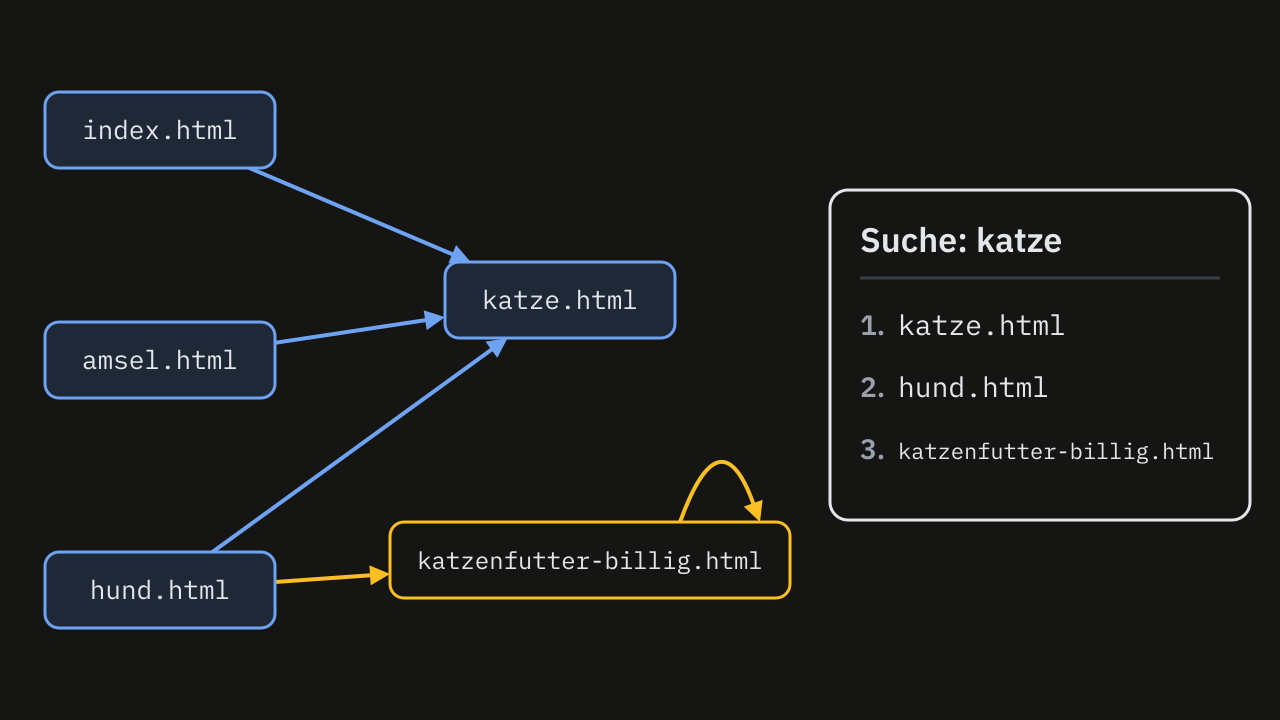
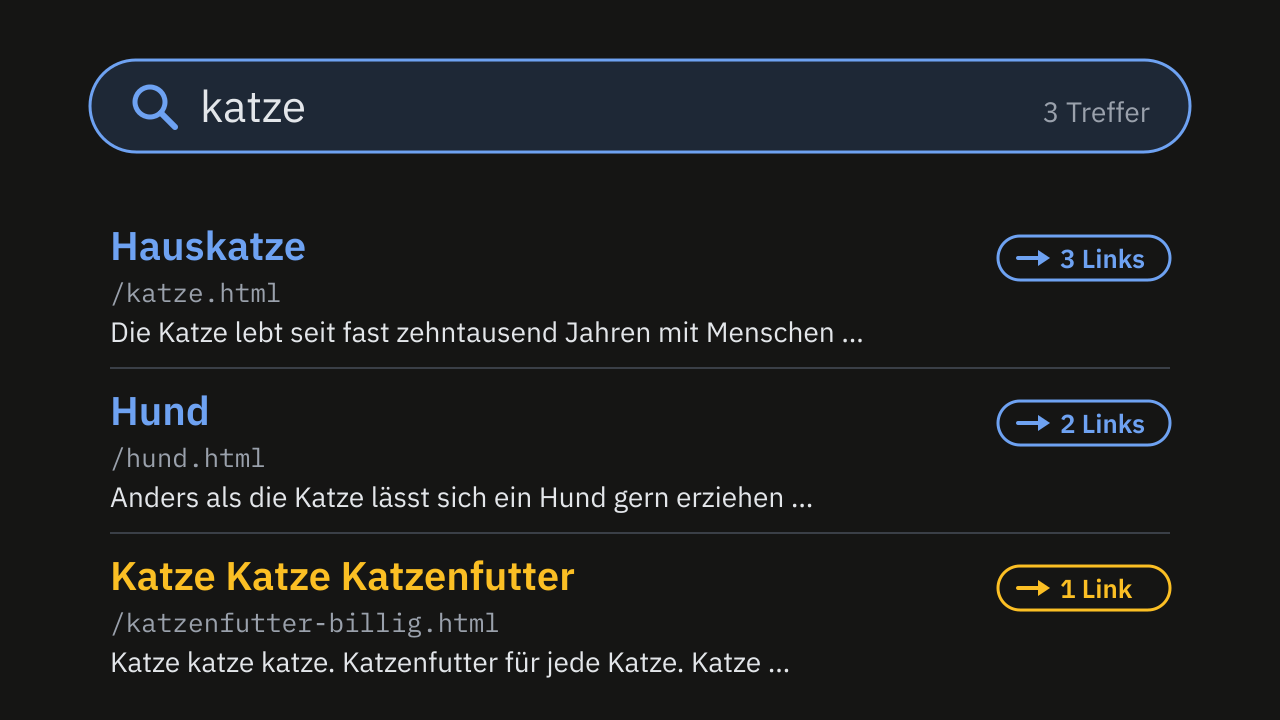
Suchmaschine: a teaser of its own, the hits for »katze« with their incoming links, the ad last, instead of a second diagram of boxes and arrows like Tracking's

diff --git a/src/content/suchmaschine/bilder/teaser.py b/src/content/suchmaschine/bilder/teaser.py
@@ -1,12 +1,13 @@
 #!/usr/bin/env python3
-"""The card picture of »Eine Suchmaschine«: a few pages of the Tierlexikon
-and their links (index, Hund and Amsel link to katze.html, only the Hund to
-the ad, which links to itself), and beside them the hits for »katze« ranked
-by incoming links (rank_by_links on the crawled Tierlexikon). Writes
-../teaser.svg; render it with
+"""The card picture of »Eine Suchmaschine«: what the students' search engine
+shows, a search field with »katze« and the hits ranked by incoming links
+(rank_by_links on the crawled Tierlexikon: katze.html 3, hund.html 2, the ad
+katzenfutter-billig.html 1), each with its title, address and the start of
+its text; the ad last, its text nothing but the word. A page, not a graph,
+so that it looks unlike the card of »Was eine Webseite über dich erfährt«.
+Writes ../teaser.svg; render it with
 src/scripts/render-svg.rb src/content/suchmaschine/teaser.svg 1280."""
 
-import math
 from pathlib import Path
 
 W, H = 1280, 720
@@ -14,78 +15,48 @@ SANS = "'IBM Plex Sans', system-ui, sans-serif"
 MONO = "'IBM Plex Mono', ui-monospace, monospace"
 TEXT, BLUE, BOX, GREY, LINE, AMBER = "#1f2937", "#2b5fb4", "#eef3fb", "#6b7280", "#d1d5db", "#d97706"
 
-# centre x, y, width, height
-nodes = {
-    "index": (160, 130, 230, 76),
-    "amsel": (160, 360, 230, 76),
-    "hund": (160, 590, 230, 76),
-    "katze": (560, 300, 230, 76),
-    "ad": (590, 560, 400, 76),
-}
-labels = {"index": "index.html", "amsel": "amsel.html", "hund": "hund.html",
-          "katze": "katze.html", "ad": "katzenfutter-billig.html"}
-edges = [("index", "katze", BLUE), ("amsel", "katze", BLUE), ("hund", "katze", BLUE), ("hund", "ad", AMBER)]
-hits = ["katze.html", "hund.html", "katzenfutter-billig.html"]
+# title, address, the start of its text, incoming links
+hits = [
+    ("Hauskatze", "/katze.html", "Die Katze lebt seit fast zehntausend Jahren mit Menschen …", 3),
+    ("Hund", "/hund.html", "Anders als die Katze lässt sich ein Hund gern erziehen …", 2),
+    ("Katze Katze Katzenfutter", "/katzenfutter-billig.html", "Katze katze katze. Katzenfutter für jede Katze. Katze …", 1),
+]
 
 
-def border(box, towards):
-    """Where the line from the box's centre to towards leaves the box."""
-    cx, cy, w, h = box
-    dx, dy = towards[0] - cx, towards[1] - cy
-    t = min((w / 2) / abs(dx) if dx else math.inf, (h / 2) / abs(dy) if dy else math.inf)
-    return cx + dx * t, cy + dy * t
-
-
-def head(tip, angle, colour, size=20, spread=10):
-    base = (tip[0] - size * math.cos(angle), tip[1] - size * math.sin(angle))
-    left = (base[0] + spread * math.sin(angle), base[1] - spread * math.cos(angle))
-    right = (base[0] - spread * math.sin(angle), base[1] + spread * math.cos(angle))
-    return base, f"<polygon points='{tip[0]:.1f},{tip[1]:.1f} {left[0]:.1f},{left[1]:.1f} {right[0]:.1f},{right[1]:.1f}' fill='{colour}'/>"
-
-
-def arrow(a, b, colour):
-    """A straight arrow aimed at the centres, the tip on b's border."""
-    start, end = border(a, b[:2]), border(b, a[:2])
-    angle = math.atan2(end[1] - start[1], end[0] - start[0])
-    base, tip = head(end, angle, colour)
-    return f"<line x1='{start[0]:.1f}' y1='{start[1]:.1f}' x2='{base[0]:.1f}' y2='{base[1]:.1f}' stroke='{colour}' stroke-width='4' stroke-linecap='round'/>" + tip
-
-
-def self_loop(box, colour):
-    """A link of a page to itself: a loop over its right end, the head along the curve."""
-    cx, cy, w, h = box
-    top = cy - h / 2
-    start = (cx + w / 2 - 110, top)
-    end = (cx + w / 2 - 30, top)
-    control = ((start[0] + end[0]) / 2, top - 110)
-    # the curve's direction at its end, from the last control point to the end
-    angle = math.atan2(end[1] - control[1], end[0] - control[0])
-    base, tip = head(end, angle, colour)
-    return (f"<path d='M {start[0]:.1f} {start[1]:.1f} Q {control[0]:.1f} {control[1]:.1f} {base[0]:.1f} {base[1]:.1f}' "
-            f"fill='none' stroke='{colour}' stroke-width='4' stroke-linecap='round'/>" + tip)
-
-
-def text(x, y, content, size, colour=TEXT, anchor="middle", weight="400", family=MONO):
+def text(x, y, content, size, colour=TEXT, anchor="start", weight="400", family=SANS):
     return f"<text x='{x}' y='{y}' text-anchor='{anchor}' font-family=\"{family}\" font-size='{size}' font-weight='{weight}' fill='{colour}'>{content}</text>"
+
+
+def magnifier(cx, cy, colour):
+    return (f"<circle cx='{cx}' cy='{cy}' r='15' fill='none' stroke='{colour}' stroke-width='5'/>"
+            f"<line x1='{cx + 11}' y1='{cy + 11}' x2='{cx + 25}' y2='{cy + 25}' stroke='{colour}' stroke-width='6' stroke-linecap='round'/>")
+
+
+def link_badge(x, y, count, colour):
+    """The incoming links: a small arrow into a box, and the count."""
+    return (f"<rect x='{x}' y='{y - 30}' width='172' height='44' rx='22' fill='#ffffff' stroke='{colour}' stroke-width='3'/>"
+            f"<line x1='{x + 20}' y1='{y - 8}' x2='{x + 42}' y2='{y - 8}' stroke='{colour}' stroke-width='4' stroke-linecap='round'/>"
+            f"<polygon points='{x + 52},{y - 8} {x + 40},{y - 16} {x + 40},{y}' fill='{colour}'/>"
+            + text(x + 62, y + 2, f"{count} {'Link' if count == 1 else 'Links'}", 26, colour, weight="600"))
 
 
 out = [f"<svg xmlns='http://www.w3.org/2000/svg' viewBox='0 0 {W} {H}' width='{W}' height='{H}'>",
        f"<rect width='{W}' height='{H}' fill='#ffffff'/>"]
-for a, b, colour in edges:
-    out.append(arrow(nodes[a], nodes[b], colour))
-out.append(self_loop(nodes["ad"], AMBER))
-for key, (cx, cy, w, h) in nodes.items():
-    stroke = AMBER if key == "ad" else BLUE
-    out.append(f"<rect x='{cx - w / 2}' y='{cy - h / 2}' width='{w}' height='{h}' rx='14' fill='{BOX if key != 'ad' else '#ffffff'}' stroke='{stroke}' stroke-width='3'/>")
-    out.append(text(cx, cy + 9, labels[key], 24 if len(labels[key]) > 14 else 26))
-# the hits
-x0, y0 = 830, 190
-out.append(f"<rect x='{x0}' y='{y0}' width='420' height='330' rx='18' fill='#ffffff' stroke='{TEXT}' stroke-width='3'/>")
-out.append(text(x0 + 30, y0 + 62, "Suche: katze", 34, anchor="start", weight="600", family=SANS))
-out.append(f"<line x1='{x0 + 30}' y1='{y0 + 88}' x2='{x0 + 390}' y2='{y0 + 88}' stroke='{LINE}' stroke-width='3'/>")
-for i, hit in enumerate(hits):
-    y = y0 + 145 + i * 62
-    out.append(text(x0 + 30, y, f"{i + 1}.", 28, GREY, anchor="start", weight="600", family=SANS))
-    out.append(text(x0 + 68, y, hit, 22 if len(hit) > 14 else 28, TEXT, anchor="start"))
+# the search field
+out.append(f"<rect x='90' y='60' width='1100' height='92' rx='46' fill='{BOX}' stroke='{BLUE}' stroke-width='3'/>")
+out.append(magnifier(150, 102, BLUE))
+out.append(text(200, 122, "katze", 44, TEXT))
+out.append(text(1150, 122, "3 Treffer", 28, GREY, anchor="end"))
+# the hits, best first
+for i, (title, address, start, links) in enumerate(hits):
+    top = 220 + i * 165
+    ad = links == 1
+    colour = AMBER if ad else BLUE
+    out.append(text(110, top + 40, title, 40, colour, weight="600"))
+    out.append(text(110, top + 82, address, 26, GREY, family=MONO))
+    out.append(text(110, top + 122, start, 28, TEXT))
+    out.append(link_badge(998, top + 46, links, colour))
+    if i < len(hits) - 1:
+        out.append(f"<line x1='110' y1='{top + 148}' x2='1170' y2='{top + 148}' stroke='{LINE}' stroke-width='2'/>")
 out.append("</svg>")
 Path(__file__).resolve().parent.parent.joinpath("teaser.svg").write_text("\n".join(out) + "\n")

diff --git a/src/content/suchmaschine/suchmaschine.md b/src/content/suchmaschine/suchmaschine.md
@@ -1,6 +1,6 @@
 <div class='meta'>
 image: teaser.webp
-image_alt: "Ein kleines Netz aus Seiten des Tierlexikons mit Pfeilen für ihre Links; katze.html hat drei eingehende Pfeile, die Seite katzenfutter-billig.html nur einen und dazu Pfeile auf sich selbst. Daneben die Treffer für »katze«, katze.html ganz oben."
+image_alt: "Eine Seite mit Suchergebnissen: im Suchfeld »katze«, darunter drei Treffer mit Titel, Adresse und dem Anfang ihres Textes, oben die Hauskatze mit 3 Links auf sie, dann der Hund mit 2, zuletzt orange die Anzeige »Katze Katze Katzenfutter« mit 1 Link, deren Text nur aus dem Wort Katze besteht."
 kind: projekt
 language: Ruby / Python
 languages: [ruby, python]
